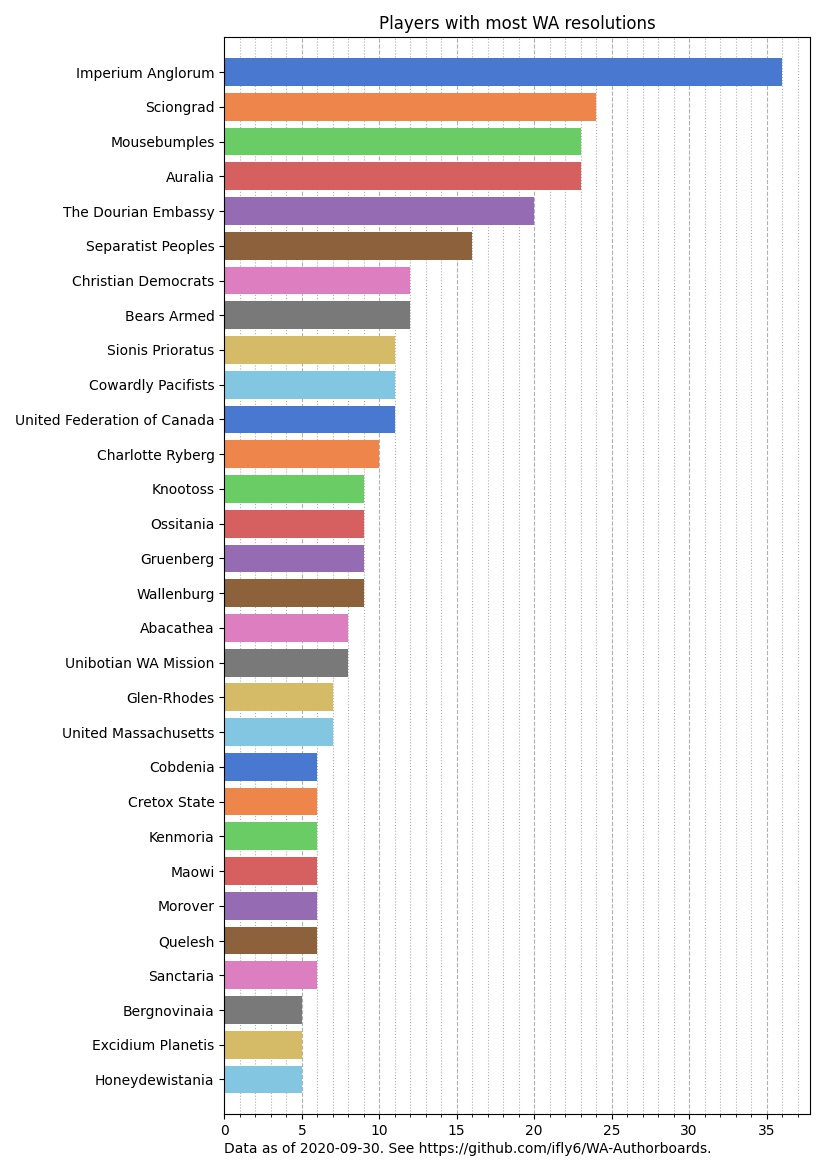
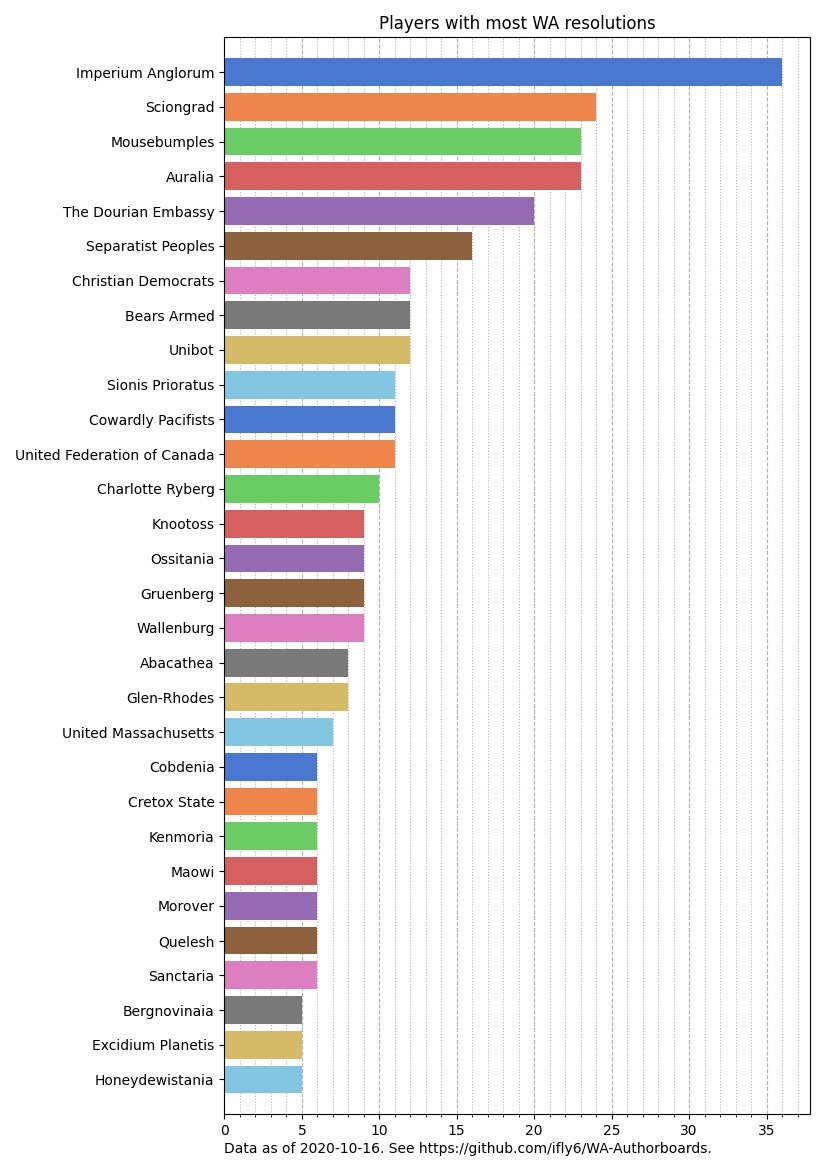
fixed unibot mis-count bug
it was caused by an invisible dangling new line

diff --git a/src/load_db.py b/src/load_db.py
@@ -3,7 +3,7 @@ from datetime import datetime
 
 
 def is_same_name(i, a):
-    return i.lower() == a.lower()
+    return i.lower().strip() == a.lower().strip()
 
 
 class Database:
@@ -104,7 +104,7 @@ class Resolution:
                 self.author = a
                 break
         else:
-            self.author = Author(author_name)
+            self.author = Author(author_name.strip())
             db.authors.append(self.author)
 
         self.author.authored_resolutions.append(self)

diff --git a/md_output/leaderboard.md b/md_output/leaderboard.md
@@ -10,6 +10,7 @@
 | Sciongrad                                |         13 |             1 |         6 |        7 |      14 |
 | Christian Democrats                      |         11 |             1 |         2 |        6 |      12 |
 | **[PLAYER]** Bears Armed                 |          9 |             3 |         0 |       12 |      12 |
+| **[PLAYER]** Unibot                      |          9 |             3 |         0 |        6 |      12 |
 | Sionis Prioratus                         |         11 |             0 |         2 |        7 |      11 |
 | **[PLAYER]** Cowardly Pacifists          |         11 |             0 |         3 |        6 |      11 |
 | **[PLAYER]** United Federation of Canada |         10 |             1 |         3 |        3 |      11 |
@@ -21,8 +22,8 @@
 | **[PLAYER]** Gruenberg                   |          9 |             0 |         4 |        4 |       9 |
 | **[PLAYER]** Wallenburg                  |          9 |             0 |         2 |        6 |       9 |
 | Abacathea                                |          7 |             1 |         1 |        2 |       8 |
+| Glen-Rhodes                              |          7 |             1 |         1 |        3 |       8 |
 | Unibotian WA Mission                     |          8 |             0 |         0 |        5 |       8 |
-| Glen-Rhodes                              |          7 |             0 |         1 |        3 |       7 |
 | United Massachusetts                     |          6 |             1 |         1 |        6 |       7 |
 | Cobdenia                                 |          4 |             2 |         0 |        5 |       6 |
 | Cretox State                             |          6 |             0 |         0 |        6 |       6 |
@@ -41,6 +42,7 @@
 | Quadrimmina                              |          2 |             3 |         0 |        4 |       5 |
 | Ransium                                  |          5 |             0 |         1 |        4 |       5 |
 | Vancouvia                                |          5 |             0 |         3 |        1 |       5 |
+| **[PLAYER]** Omigodtheykilledkenny       |          5 |             0 |         1 |        2 |       5 |
 | **[PLAYER]** Tinfect                     |          5 |             0 |         2 |        2 |       5 |
 | Araraukar                                |          0 |             4 |         0 |        4 |       4 |
 | Embolalia                                |          4 |             0 |         1 |        3 |       4 |
@@ -50,8 +52,6 @@
 | Studly Penguins                          |          4 |             0 |         1 |        0 |       4 |
 | Topid                                    |          4 |             0 |         0 |        2 |       4 |
 | **[PLAYER]** Ainocra                     |          3 |             1 |         1 |        2 |       4 |
-| **[PLAYER]** Omigodtheykilledkenny       |          4 |             0 |         1 |        2 |       4 |
-| **[PLAYER]** Unibot                      |          1 |             3 |         0 |        1 |       4 |
 | **[PLAYER]** Wrapper                     |          3 |             1 |         1 |        3 |       4 |
 | Ainocra                                  |          2 |             1 |         1 |        1 |       3 |
 | Ceni                                     |          2 |             1 |         0 |        0 |       3 |
@@ -150,7 +150,6 @@
 | Freewilltoall                            |          1 |             0 |         1 |        0 |       1 |
 | Frisbeeteria                             |          1 |             0 |         0 |        1 |       1 |
 | Gatchina                                 |          0 |             1 |         0 |        0 |       1 |
-| Glen-Rhodes                              |          0 |             1 |         0 |        0 |       1 |
 | Gorundu                                  |          1 |             0 |         1 |        0 |       1 |
 | Gotham Network                           |          1 |             0 |         0 |        0 |       1 |
 | Great Azarath                            |          1 |             0 |         0 |        0 |       1 |
